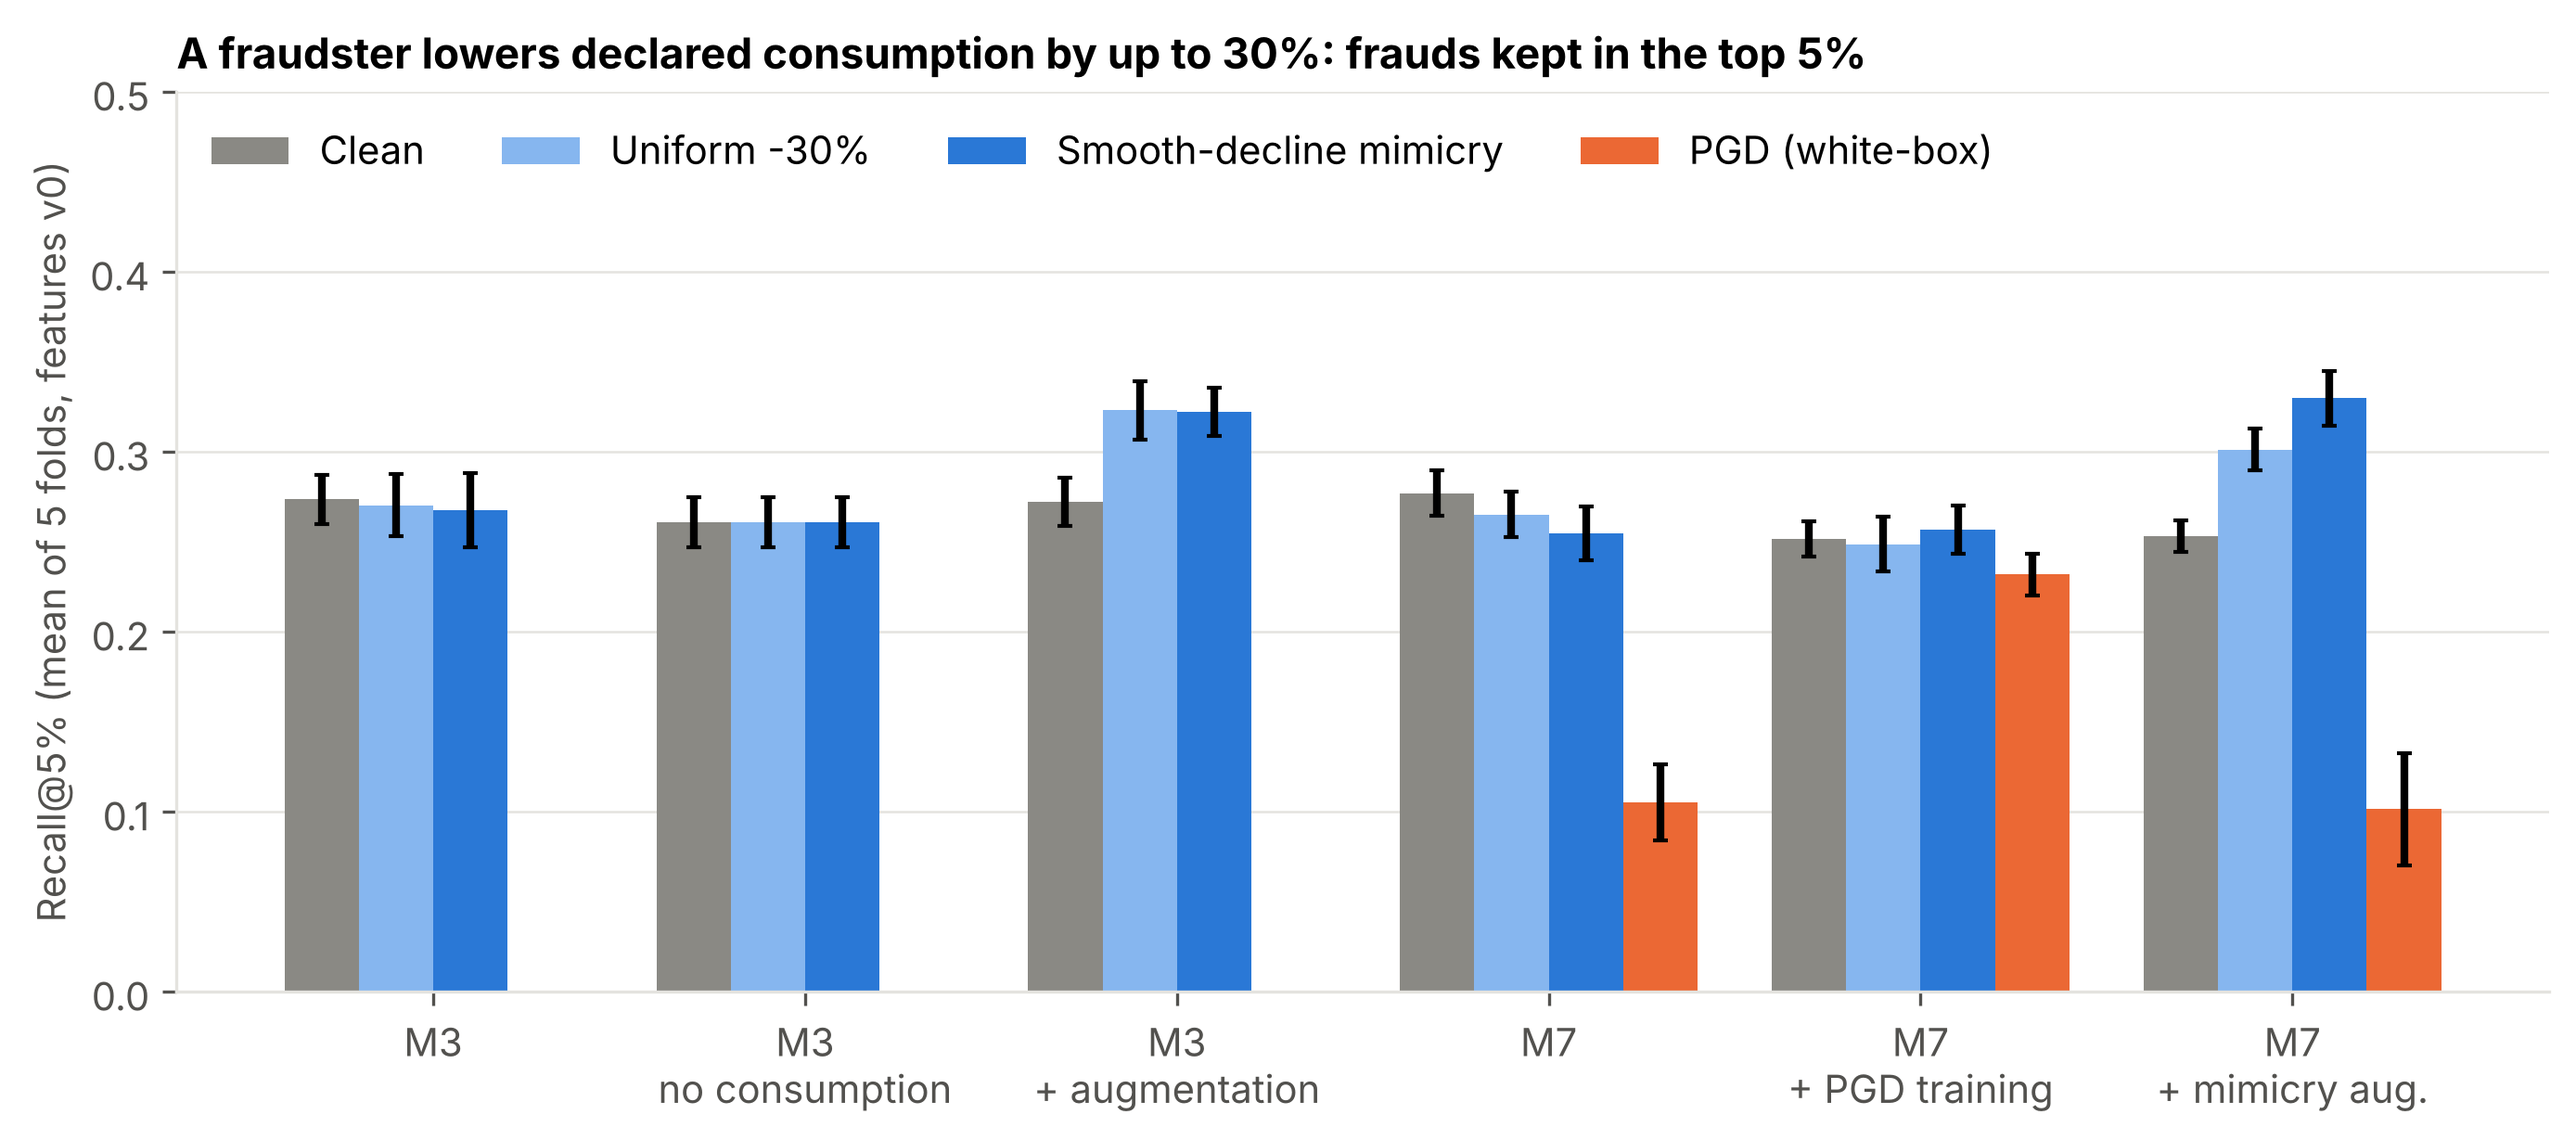
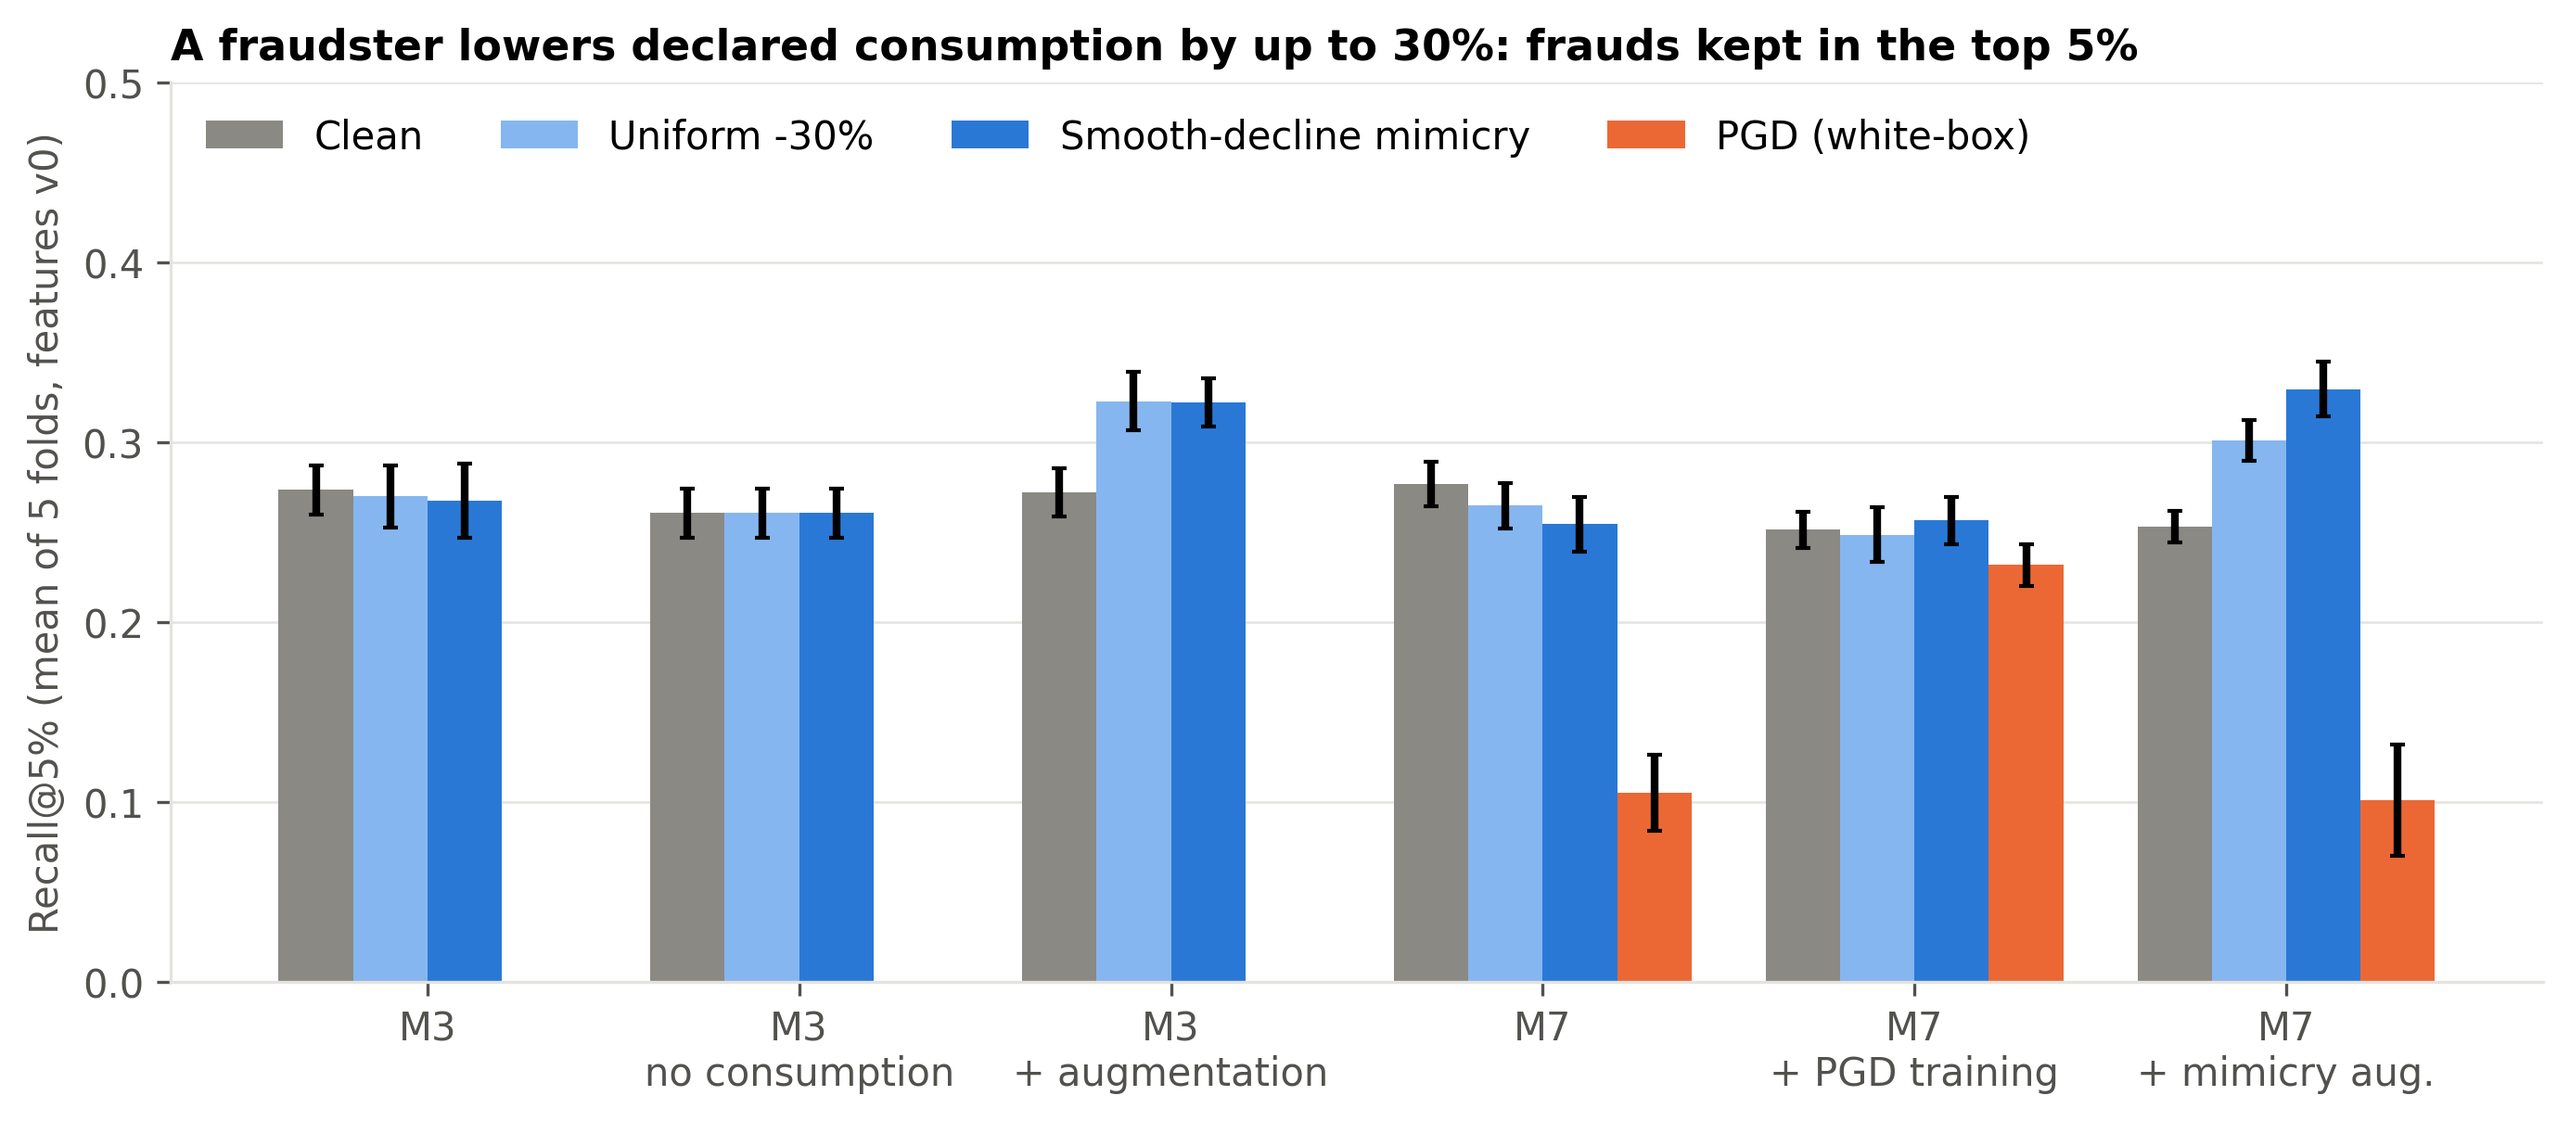
fix: take attacked consumption off the top tariff level and test defences on held-out attacks
Scaling every tariff level by the same factor left bills no real invoice can have, and the augmented model learned to spot that. The v1 study now attacks the tuned LightGBM and adds defences trained on one attack only.

diff --git a/src/eval/adversarial.py b/src/eval/adversarial.py
@@ -79,11 +79,21 @@ def build_features(fv, inv, cli):
 
 # Invoice attacks
 def _scale_levels(inv, factor):
-    # Lower the four consumption levels and recompute cons and cons_pm the way clean.py does
-    # (cons_pm = cons / months_valid, missing where the billing period is impossible).
+    # Lower each invoice's total to ceil(cons x factor) and recompute cons and cons_pm the way
+    # clean.py does (cons_pm = cons / months_valid, missing where the billing period is
+    # impossible). The units removed come off the highest tariff level first, as they would on
+    # a real bill: scaling every level by the same factor instead leaves level 2+ consumption
+    # while level 1 is below its band limit, a split no real invoice has and that a defence
+    # trained on such copies learns to spot.
     out = inv.copy()
-    for level in LEVELS:
-        out[level] = np.ceil(out[level].to_numpy() * factor).astype(np.int64)
+    levels = out[LEVELS].to_numpy(np.int64)
+    total = levels.sum(axis=1)
+    remove = total - np.ceil(total * factor).astype(np.int64)
+    for j in range(len(LEVELS) - 1, -1, -1):
+        cut = np.minimum(levels[:, j], remove)
+        levels[:, j] -= cut
+        remove -= cut
+    out[LEVELS] = levels
     out["cons"] = out[LEVELS].sum(axis=1)
     out["cons_pm"] = out["cons"] / out["months_valid"]
     return out
@@ -186,35 +196,50 @@ def _log(rows, study, fv):
 
 
 # Trees (M3)
+# Augmented M3 variants -> the attacks their training copies use. The single-attack variants
+# are the held-out-attack check: a defence counts as robust only if it also holds against the
+# attack it was not trained on.
+AUGMENTED = {
+    "M3 + adv. augmentation": ("uniform", "smooth"),
+    "M3 + aug. uniform only": ("uniform",),
+    "M3 + aug. smooth only": ("smooth",),
+}
+
+
 def tree_study(fv="v0"):
     # M3 as is, M3 without the consumption group (which group carries the vulnerability), and
-    # M3 with adversarial augmentation: each training-fold fraud gets one attacked copy
-    # (uniform or smooth at random, 1:1), label 1. fit_m3 recomputes scale_pos_weight after
-    # augmentation. Only training-fold frauds are augmented, so the held-out fold stays unseen.
+    # M3 with adversarial augmentation: each training-fold fraud gets one attacked copy (an
+    # attack drawn at random from the variant's list), label 1. fit_m3 recomputes
+    # scale_pos_weight after augmentation. Only training-fold frauds are augmented, so the
+    # held-out fold stays unseen. On v1 every variant uses the tuned M3 settings
+    # (results/tables/M3_tuned_params_v1.json), the model inside the final fusion.
+    import json
+
     from src.models.trees import fit_m3
 
     ids, X, y, folds = load_train(fv)
     att = attacked_inputs(fv)
     consumption = [c for c in X.columns if c.startswith(CONSUMPTION_PREFIX)]
+    tuned = Path(f"results/tables/M3_tuned_params_{fv}.json")
+    params = json.loads(tuned.read_text()) if fv != "v0" and tuned.exists() else {}
     rng = np.random.default_rng(SEED)
     rows = []
-    for name in ("M3", "M3 without consumption features", "M3 + adv. augmentation"):
+    names = ["M3", "M3 without consumption features", *AUGMENTED]
+    for name in names:
         cols = [c for c in X.columns if c not in consumption] if "without" in name else list(X)
         for k in range(5):
             tr, va = folds != k, folds == k
             Xtr, ytr = X.loc[tr, cols], y[tr]
-            if "augmentation" in name:
+            if name in AUGMENTED:
                 fr = ids[tr][ytr == 1]
-                pick = rng.integers(0, 2, len(fr))
+                kinds = AUGMENTED[name]
+                pick = rng.integers(0, len(kinds), len(fr))
                 copies = pd.concat(
-                    [
-                        att["uniform"][0].loc[fr[pick == 0], cols],
-                        att["smooth"][0].loc[fr[pick == 1], cols],
-                    ]
+                    [att[a][0].loc[fr[pick == i], cols] for i, a in enumerate(kinds)]
                 ).astype(Xtr.dtypes.to_dict())
                 Xtr = pd.concat([Xtr, copies], ignore_index=True)
                 ytr = np.concatenate([ytr, np.ones(len(copies), ytr.dtype)])
-            m = fit_m3(Xtr, ytr)
+            m = fit_m3(Xtr, ytr, **params)
             Xva, yv = X.loc[va, cols], y[va]
             fr_pos, fr_ids = np.flatnonzero(yv == 1), ids[va][yv == 1]
             r = {"model": name, "fold": k, "clean": recall_at(yv, m.predict_proba(Xva)[:, 1])}

diff --git a/src/viz/robustness_fig.py b/src/viz/robustness_fig.py
@@ -17,6 +17,8 @@ ORDER = [
     "M3",
     "M3 without consumption features",
     "M3 + adv. augmentation",
+    "M3 + aug. uniform only",
+    "M3 + aug. smooth only",
     "M7",
     "M7 + PGD adv. training",
     "M7 + mimicry augmentation",
@@ -24,6 +26,8 @@ ORDER = [
 SHORT = {
     "M3 without consumption features": "M3\nno consumption",
     "M3 + adv. augmentation": "M3\n+ augmentation",
+    "M3 + aug. uniform only": "M3 + aug.\nuniform only",
+    "M3 + aug. smooth only": "M3 + aug.\nsmooth only",
     "M7 + PGD adv. training": "M7\n+ PGD training",
     "M7 + mimicry augmentation": "M7\n+ mimicry aug.",
 }
@@ -48,13 +52,12 @@ def main():
     models = [m for m in ORDER if m in mean.index]
     fig, ax = plt.subplots(figsize=(11, 4.2))
     width = 0.2
-    for j, (attack, label, color) in enumerate(ATTACKS):
-        if attack not in mean:
-            continue
+    present = [row for row in ATTACKS if row[0] in mean]
+    for j, (attack, label, color) in enumerate(present):
         xs, ys, es = [], [], []
         for i, m in enumerate(models):
             if pd.notna(mean.loc[m, attack]):
-                xs.append(i + (j - 1.5) * width)
+                xs.append(i + (j - (len(present) - 1) / 2) * width)
                 ys.append(mean.loc[m, attack])
                 es.append(std.loc[m, attack])
         ax.bar(xs, ys, width, yerr=es, color=color, label=label, capsize=2)

diff --git a/tests/test_trees.py b/tests/test_trees.py
@@ -199,10 +199,10 @@ class TreeTests(unittest.TestCase):
             patch.object(study, "_log"),
         ):
             result = study.tree_study("v0")
-        # Three variants x five folds; the augmented fits see twice the frauds, so the
-        # recomputed scale_pos_weight halves.
-        self.assertEqual(len(result), 15)
-        np.testing.assert_allclose(records, [3.0] * 10 + [1.5] * 5)
+        # Five variants x five folds; the three augmented variants see twice the frauds, so
+        # their recomputed scale_pos_weight halves.
+        self.assertEqual(len(result), 25)
+        np.testing.assert_allclose(records, [3.0] * 10 + [1.5] * 15)
 
     def test_heldout_changes_do_not_affect_training_predictions(self):
         self.train()
